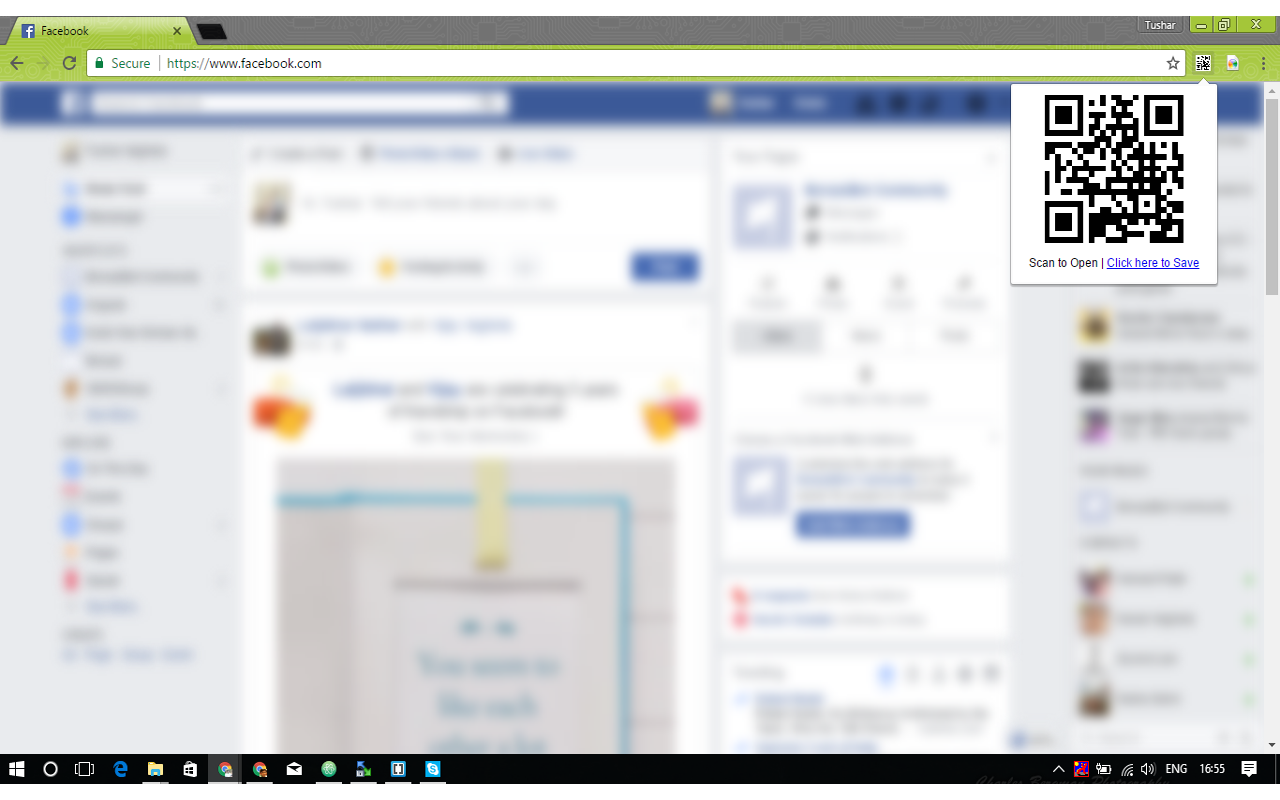
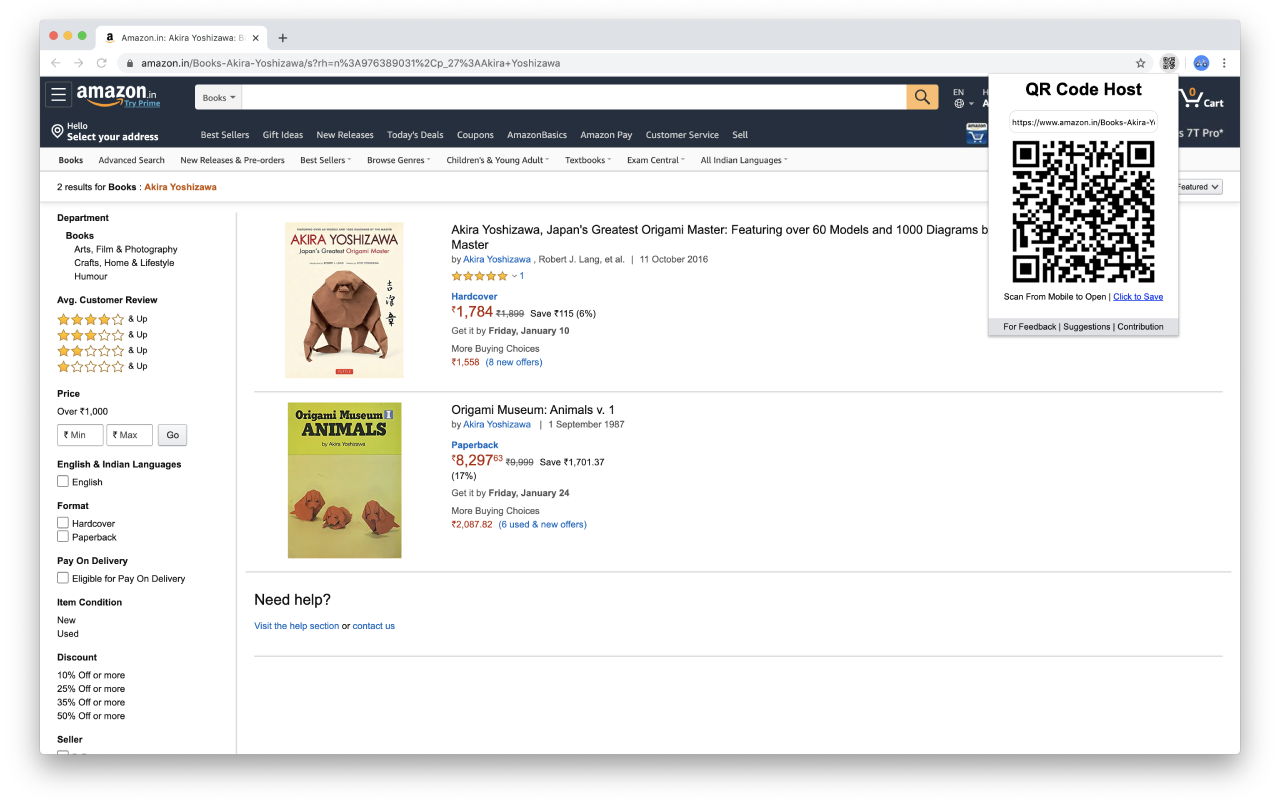
Version Update [2.0]
- New Popup Page
- Reference to Lander added

diff --git a/src/js/popup.js b/src/js/popup.js
@@ -23,13 +23,15 @@ function setHostname(hostname) {
     var qrref =  document.getElementById('qrref');
 
 	qrimage.src = qrPath;
-    qrref.innerHTML = 'Please Wait';
+	qrref.innerText = 'Please Wait';
+	
+	site.value = hostname;
     
     qrimage.addEventListener('error',function(e){
 		e.target.src = 'img/error.png';
         qrref.setAttribute('href','#');
         qrref.removeAttribute('download');
-        qrref.innerHTML = 'Try Again!';
+        qrref.innerText = 'Try Again!';
         setTimeout(closePopup,2000);
 	});
     
@@ -38,7 +40,7 @@ function setHostname(hostname) {
 			qrref.setAttribute('href',qrPath);
 			qrref.setAttribute('target','_blank');
             qrref.setAttribute('download','');
-            qrref.innerHTML = 'Click to Save';
+            qrref.innerText = 'Click to Save';
         }
 	});
 }

diff --git a/src/popup.html b/src/popup.html
@@ -6,10 +6,15 @@
 	<script src="js/popup.js"></script>
 </head>
 <body>
+	<h1>QR Code Host</h1>
+	<input type="text" id="site" readonly/>
 	<div id="qr">
 		<img id="qrimage" src="img/loading.gif" alt="" title="" />
 	</div>
-	<p>Scan From Mobile to Open | <a id="qrref" href="" download>Click to Save</a></p>
-	<p><em>Press Ctrl(⌘ in Mac)+Shift+1 or Click</em></p>
+	<p class="last">Scan From Mobile to Open | <a id="qrref" href="" download>Click to Save</a></p>
+	<hr>
+	<footer>
+		<a href="https://tusharv.in/qrhost" target="_blank">For Feedback | Suggestions | Contribution</a>
+	</footer>
 </body>
 </html>

diff --git a/src/css/popup.css b/src/css/popup.css
@@ -4,6 +4,36 @@ body {
 	text-align: center;
 }
 
+h1 {
+	margin: 5px;
+}
+
+footer {
+	position: absolute;
+	bottom: 0;
+	left: 0;
+	width: 100%;
+	padding: 5px 0px;
+	background-color: #dfe1e5;
+}
+
+footer a {
+	color: #0f0f0f;
+	text-decoration: none;
+	outline: none;
+}
+
+#site {
+	margin: 10px 10px;
+	padding: 5px 3px;
+	width: 200px;
+	height: 20px;
+	text-align: center;
+	border: solid 1px #dfe1e5;
+	border-radius: 10px;
+	outline: none;
+}
+
 #qr {
 	width:200px;
 	height: 200px;
@@ -13,4 +43,8 @@ body {
 #qr img {
 	height: 100%;
 	width: 100%;
+}
+
+.last {
+	padding-bottom: 25px;
 }
